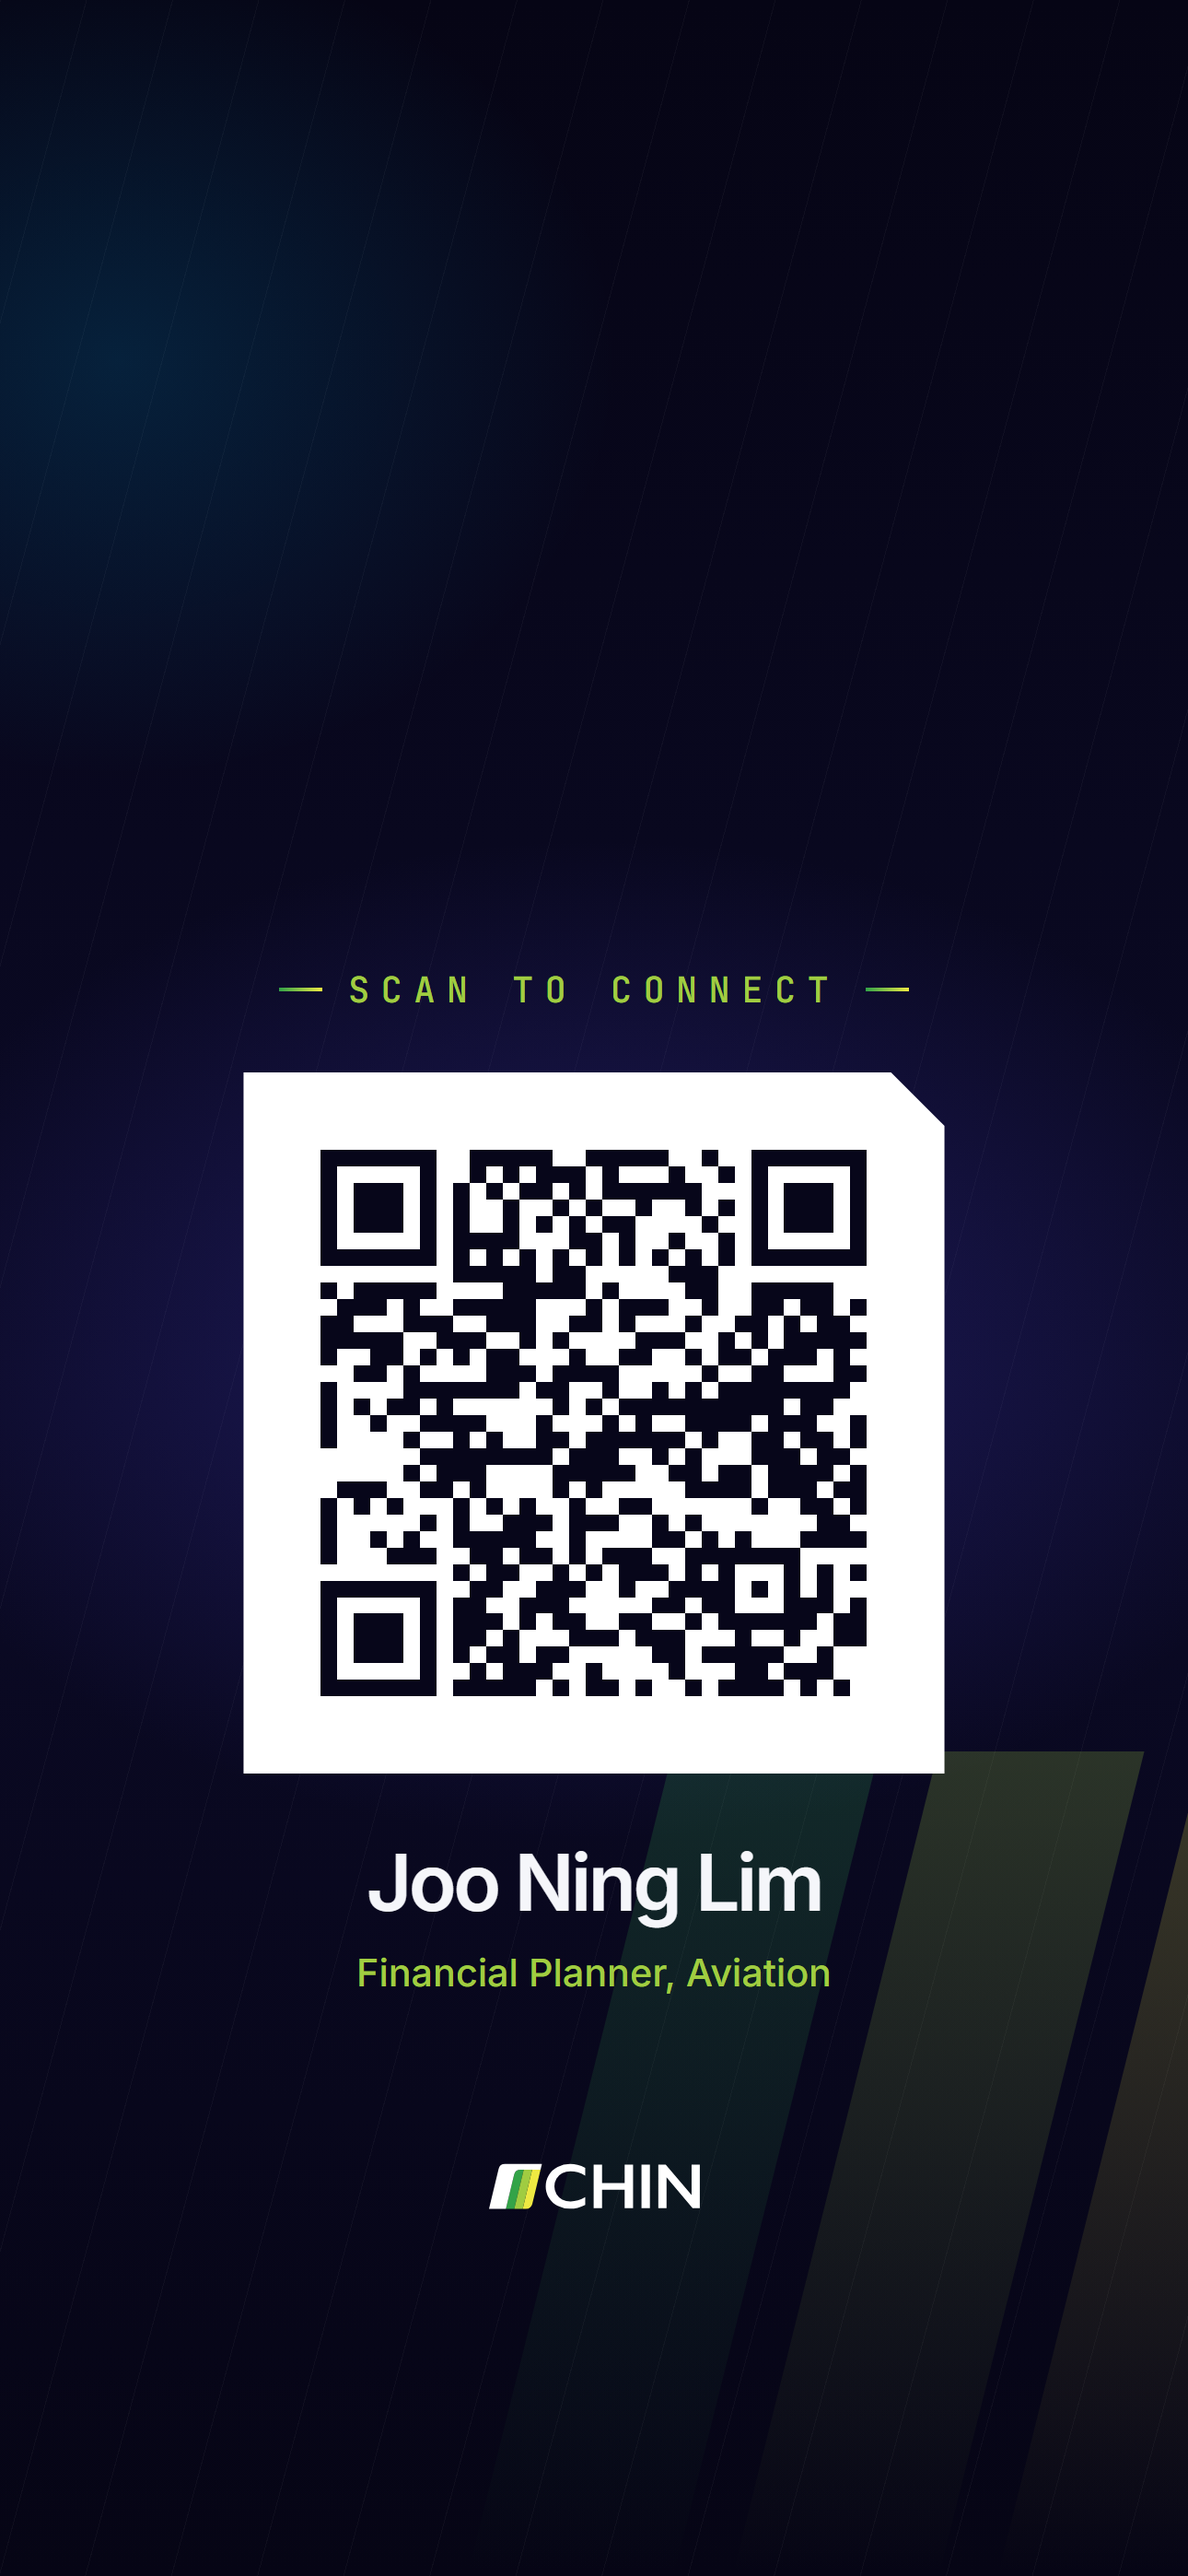
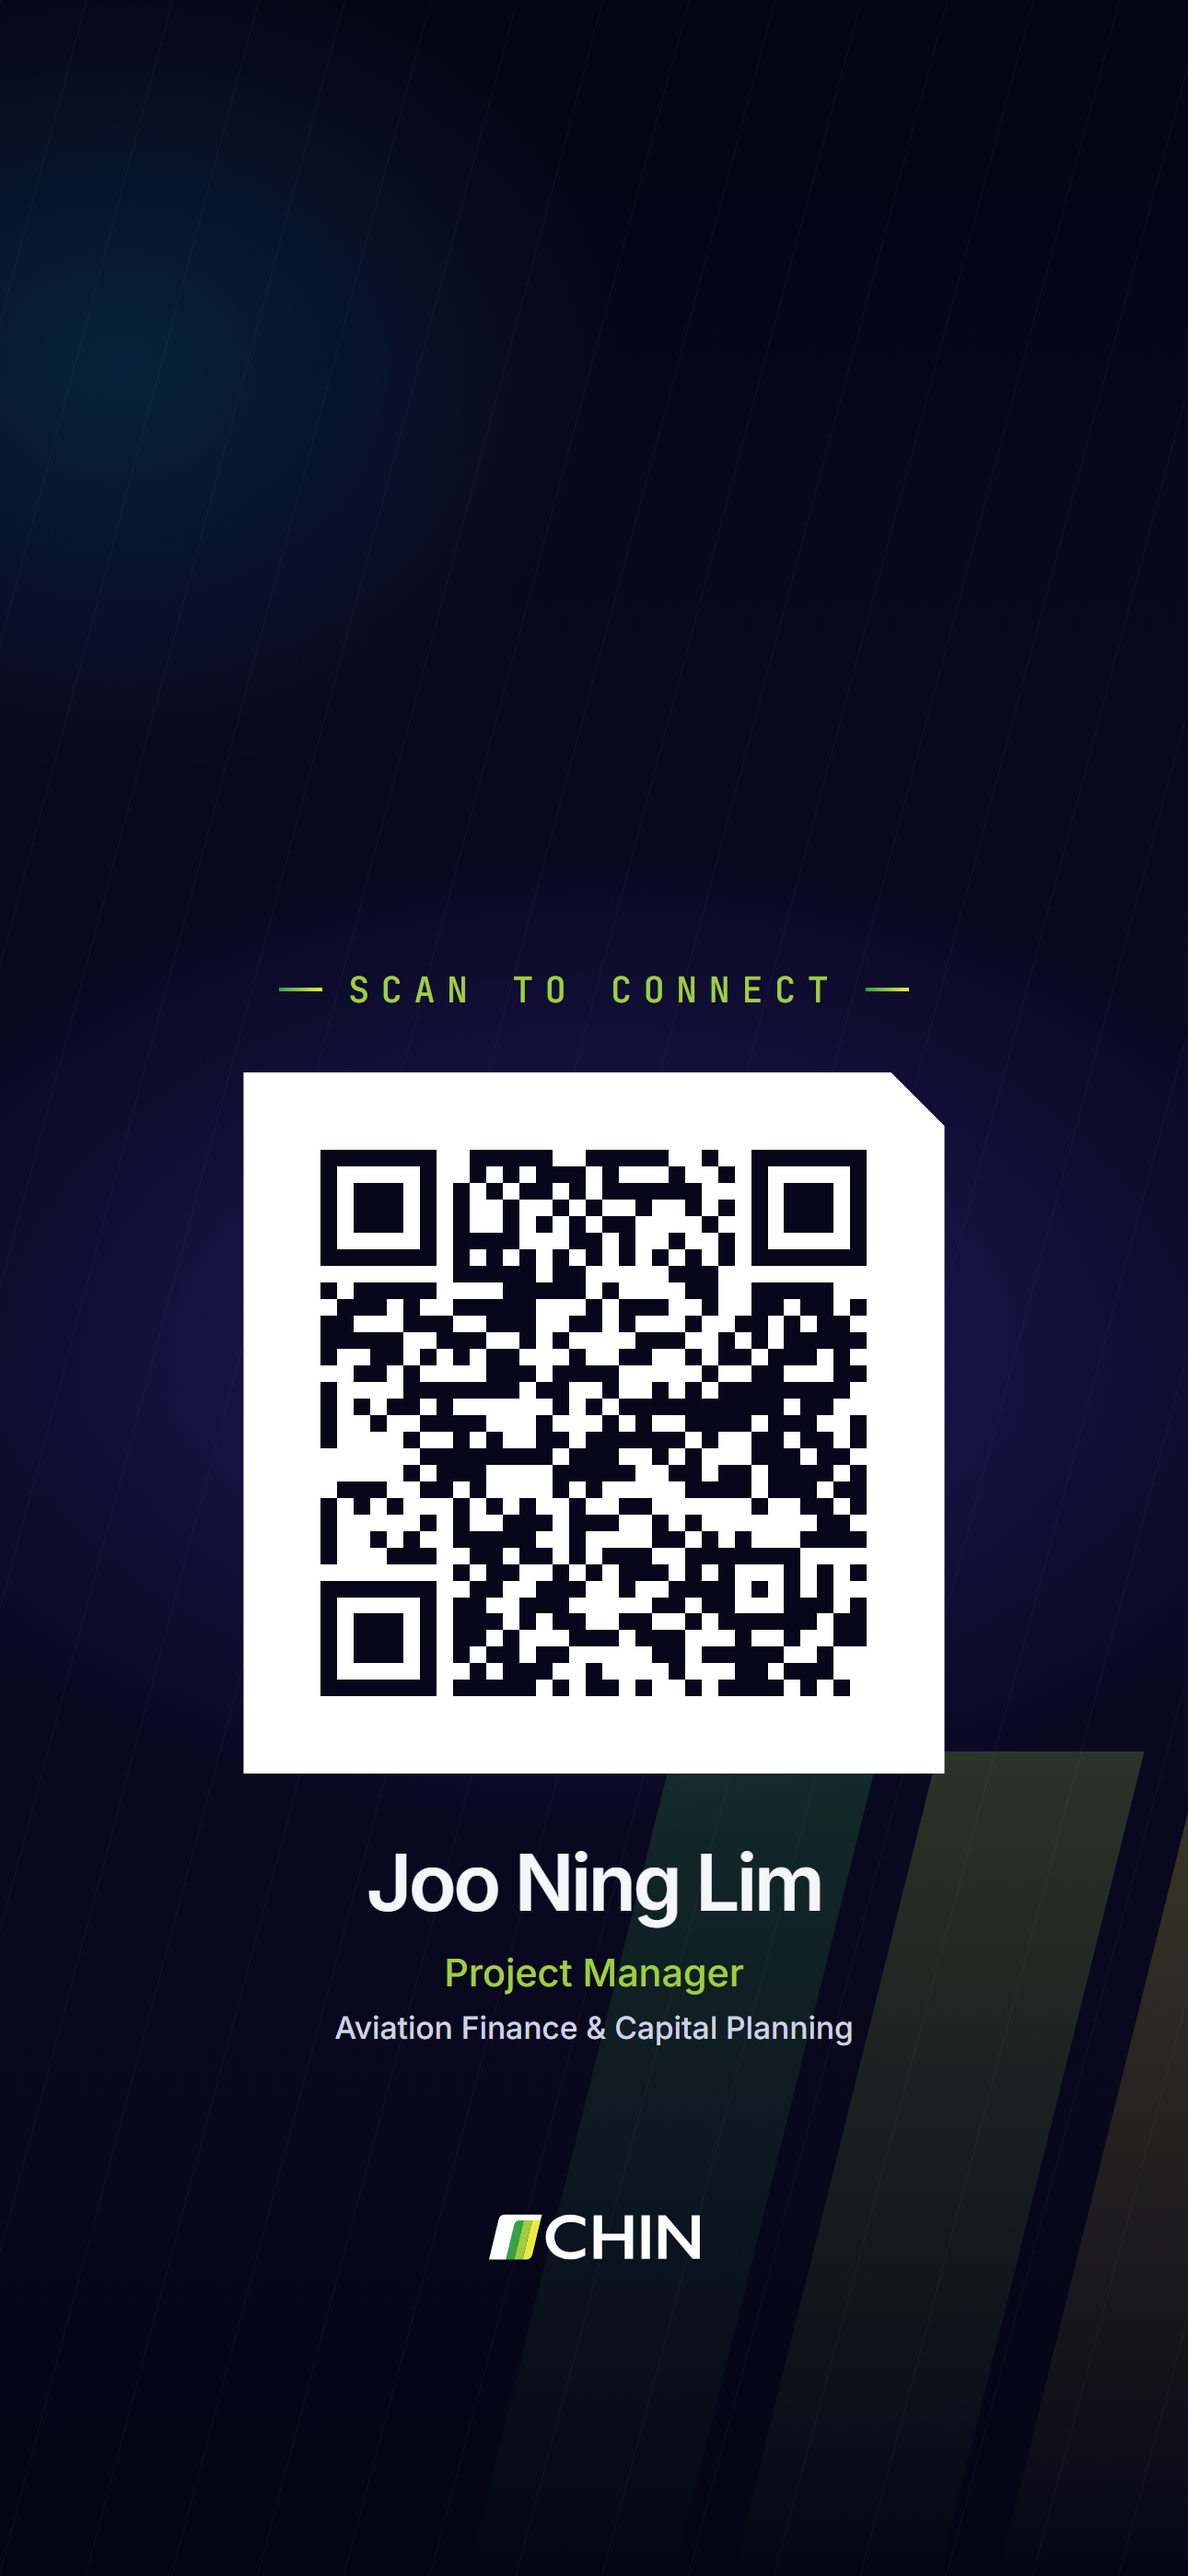
Change title to Project Manager with aviation finance specialty

Changed region(s): [[0.2791, 0.7468, 0.7132, 0.809], [0.4031, 0.8401, 0.5891, 0.9024]]

diff --git a/index.html b/index.html
@@ -4,9 +4,9 @@
   <meta charset="UTF-8">
   <meta name="viewport" content="width=device-width, initial-scale=1.0, viewport-fit=cover">
   <title>Joo Ning Lim — Aviation Planning at CHIN</title>
-  <meta name="description" content="Joo Ning Lim, Financial Planner with the Aviation Planning team at R.M. Chin & Associates. Capital planning, airport finance, ROI analysis and procurement strategy for airports.">
+  <meta name="description" content="Joo Ning Lim, Project Manager specializing in aviation finance with the Aviation Planning team at R.M. Chin & Associates. Capital planning, airport finance, ROI analysis and procurement strategy for airports.">
   <meta property="og:title" content="Joo Ning Lim — Aviation Planning at CHIN">
-  <meta property="og:description" content="Financial Planner, Aviation at R.M. Chin &amp; Associates. Capital planning, airport finance, ROI and procurement.">
+  <meta property="og:description" content="Project Manager, Aviation Finance at R.M. Chin &amp; Associates. Capital planning, airport finance, ROI and procurement.">
   <meta property="og:image" content="assets/img/joo-ning.jpg">
   <meta name="theme-color" content="#07061a">
   <meta name="color-scheme" content="dark">
@@ -45,7 +45,8 @@
           </div>
           <div>
             <h1>Joo Ning Lim</h1>
-            <p class="role">Financial Planner, Aviation</p>
+            <p class="role">Project Manager</p>
+            <p class="specialty">Aviation Finance &amp; Capital Planning</p>
             <p class="org mono">R.M. Chin &amp; Associates</p>
           </div>
         </div>

diff --git a/styles.css b/styles.css
@@ -132,6 +132,7 @@ svg { width: 18px; height: 18px; flex: none; fill: none; stroke: currentColor; s
 .avatar img { width: 100%; height: 100%; object-fit: cover; clip-path: polygon(0 0, calc(100% - 16px) 0, 100% 16px, 100% 100%, 0 100%); }
 .id h1 { font-size: clamp(36px, 9vw, 56px); line-height: 1.02; letter-spacing: -0.04em; }
 .role { margin-top: 6px; font-size: 18px; font-weight: 500; color: var(--chin-lime); letter-spacing: -0.01em; }
+.specialty { margin-top: 2px; font-size: 14.5px; color: var(--ink-muted); }
 .org { margin-top: 4px; color: var(--ink-subtle); font-size: 12.5px; }
 
 .lead {

diff --git a/README.md b/README.md
@@ -1,6 +1,6 @@
 # Joo Ning Lim · Aviation Planning at CHIN
 
-Digital business card for Joo Ning Lim, Financial Planner on the Aviation Planning team at R.M. Chin & Associates.
+Digital business card for Joo Ning Lim, Project Manager (Aviation Finance & Capital Planning) on the Aviation Planning team at R.M. Chin & Associates.
 Live at **https://aviationplanning-rmchin.github.io/Jninglim/**.
 
 <p align="center">
